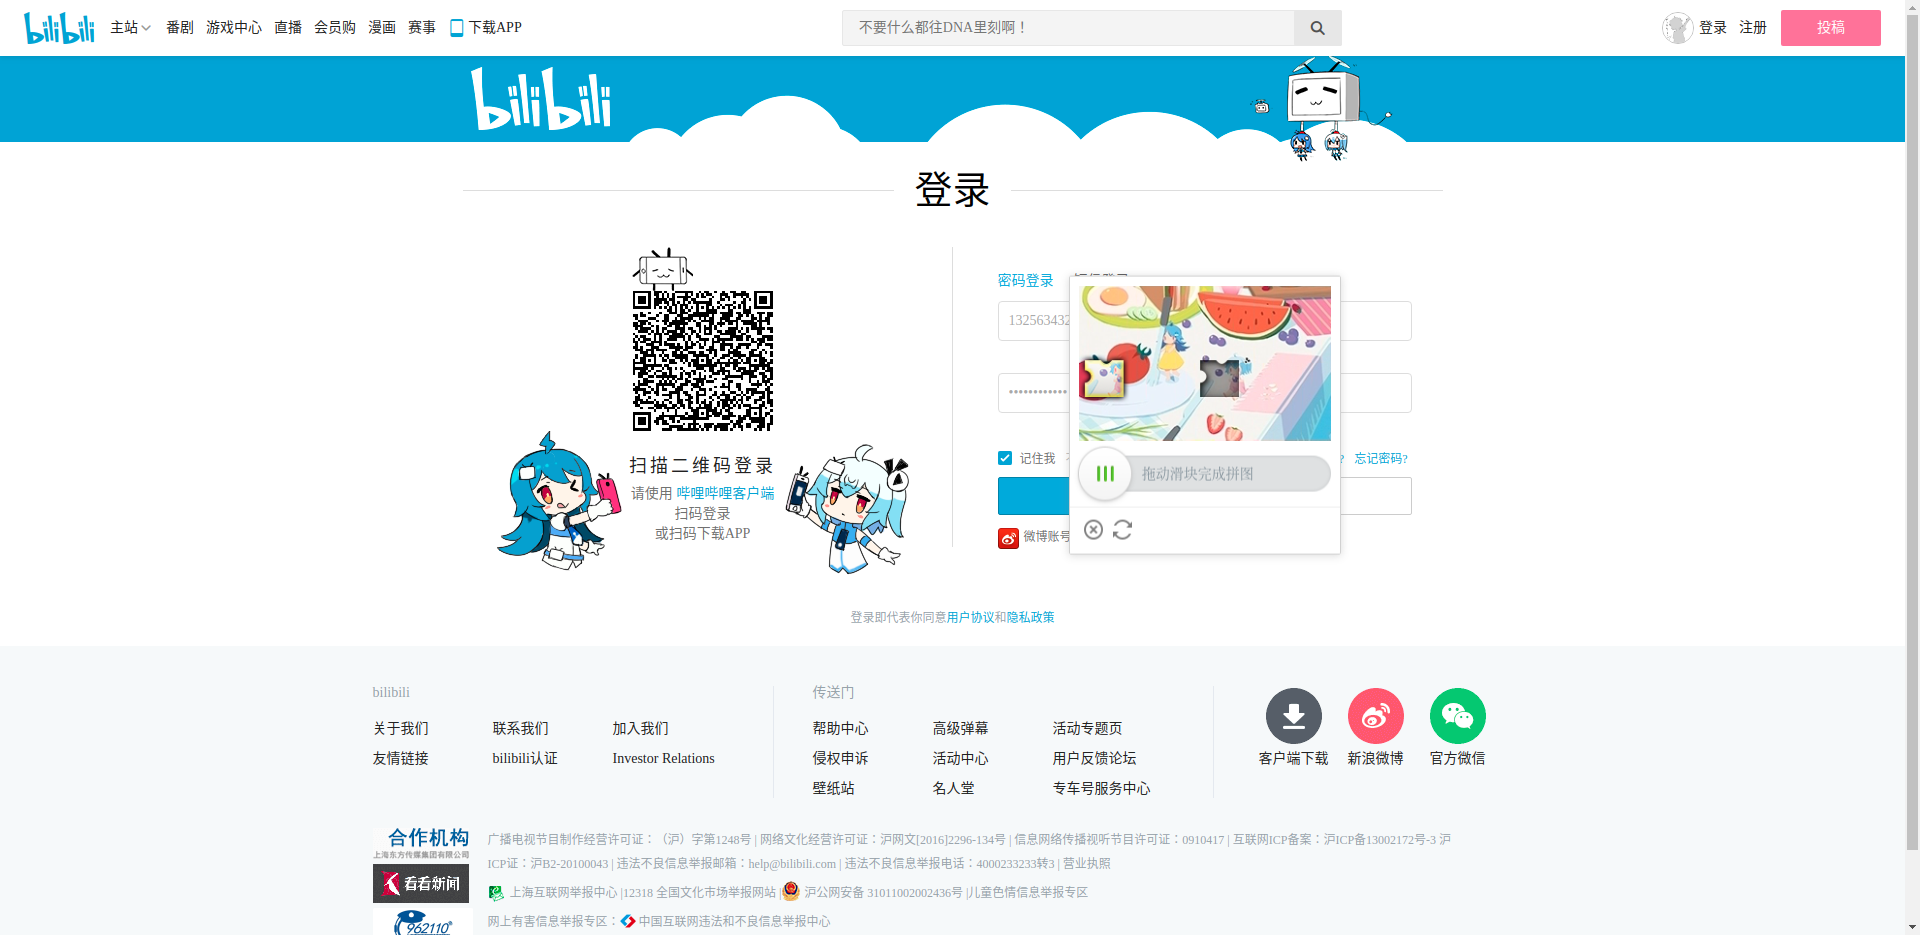
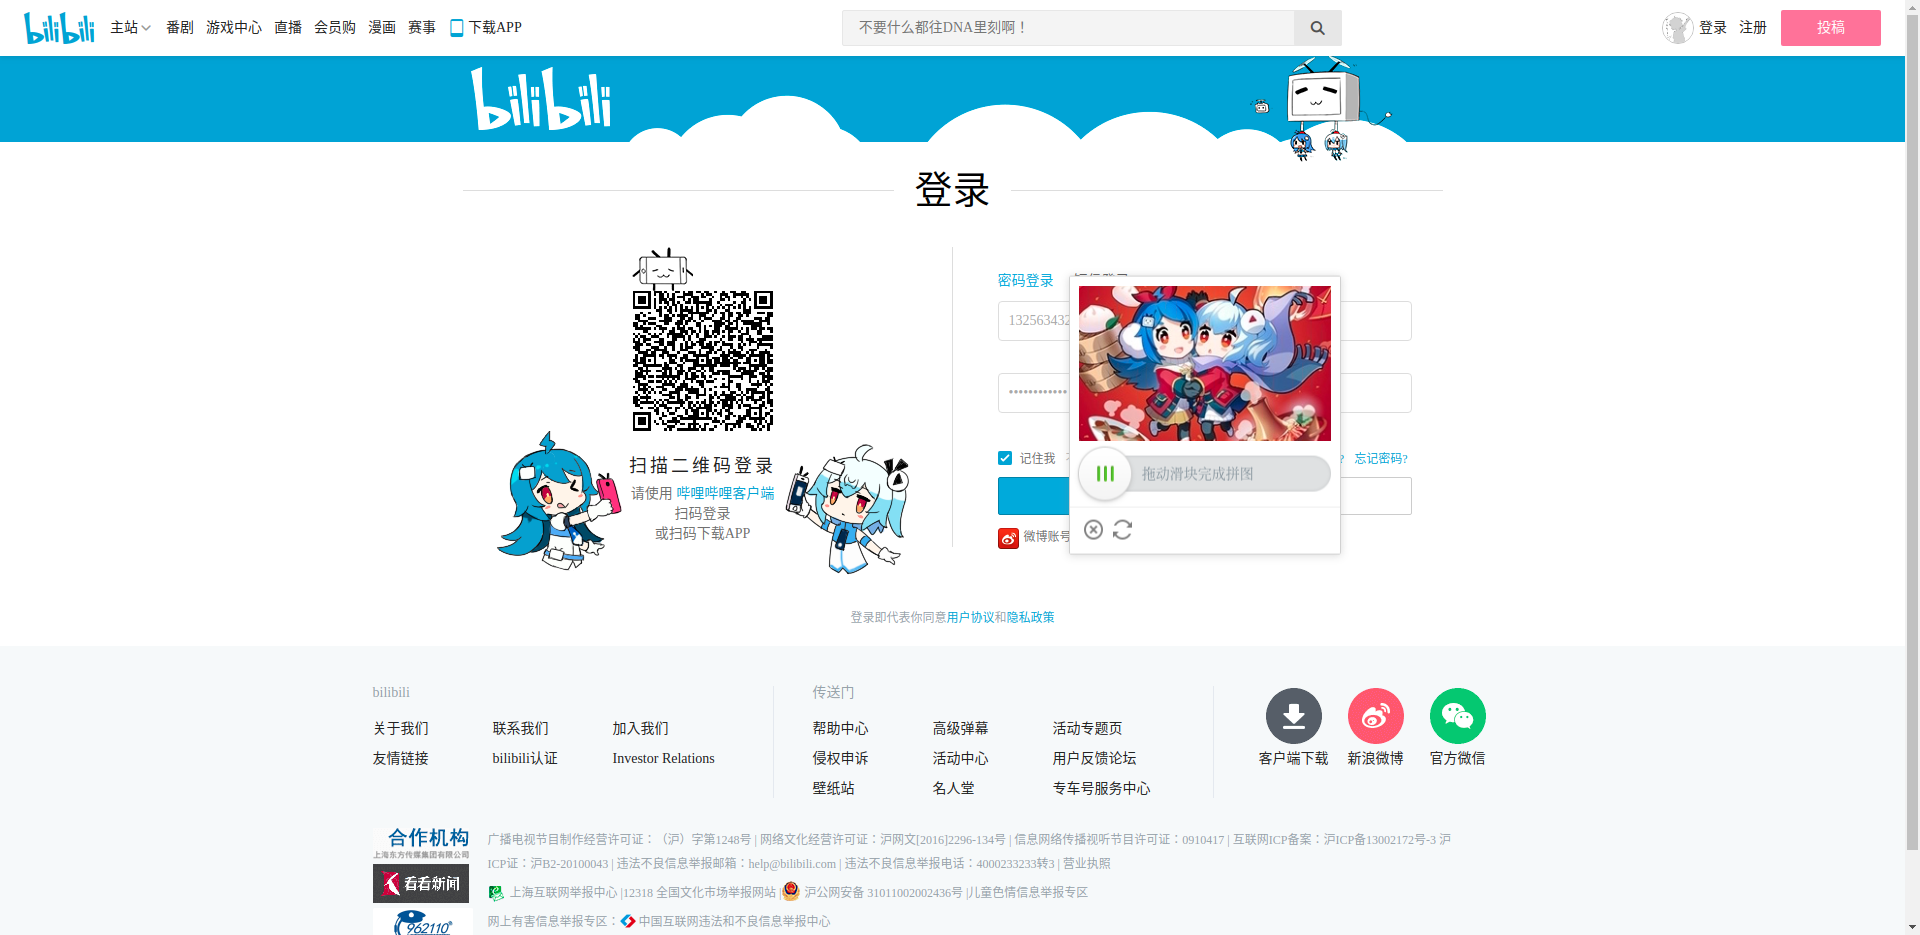
20200506

Changed region(s): [[0.5625, 0.2791, 0.7188, 0.4963], [0.3125, 0.3102, 0.4062, 0.4652]]

diff --git a/bilibili/test_1.py b/bilibili/test_1.py
@@ -1,5 +1,54 @@
 from selenium import webdriver
 from PIL import Image
+from selenium.webdriver.common.action_chains import ActionChains
+import time
+import random
+
+def slid_track(distance):
+    current = 0
+    v = 0
+    t = 0.2
+    mid = distance*2/3
+    track = []
+    while current<distance:
+        if current<mid:
+            a = 2
+        else:
+            a=-1
+        v0 = v
+        v = v0+a*t
+        s = v0*t+a*t*t/2
+        current += s
+        track.append(round(s))
+    return track
+
+
+def execute_slid(track,driver,slid_button):
+    ActionChains(driver).click_and_hold(slid_button).perform()
+    for i in track:
+        ActionChains(driver).move_by_offset(xoffset=i,yoffset=random.uniform(1,3)).perform()
+    time.sleep(0.5)
+    ActionChains(driver).release().perform()
+
+
+def caculate_distance(less_img,voll_img):
+    for i in range(less_img.size[0]):
+        for j in range(voll_img.size[1]):
+            if not img_equal(less_img,voll_img,i,j):
+                distance = i-6
+                return distance
+
+
+def img_equal(less_img,voll_img,x,y):
+    pixel1 = less_img.load()[x,y]
+    pixel2 = voll_img.load()[x,y]
+    wucha = 30
+    if abs(pixel1[0]-pixel2[0])<wucha and abs(pixel1[1]-pixel2[1])<wucha:
+        return True
+    else:
+        return False
+
+
 options = webdriver.ChromeOptions()
 options.add_argument("--no-sandbox")
 #options.add_argument("--headless")
@@ -14,11 +63,30 @@ login_pwd.send_keys("wyq123456789")
 button = driver.find_element_by_xpath("//a[@class='btn btn-login']")
 button.click()
 slid_button = driver.find_element_by_xpath("//div[@class='geetest_slider_button']")
-import time 
-time.sleep(2)
+time.sleep(1)
 less_canvas = driver.find_element_by_xpath("//canvas[@class='geetest_canvas_slice geetest_absolute']")
 top,bottom,left,right = less_canvas.location["y"],less_canvas.location["y"]+less_canvas.size["height"],less_canvas.location["x"],less_canvas.location["x"]+less_canvas.size["width"]
+#
+js = "document.getElementsByClassName('geetest_canvas_slice geetest_absolute')[0].style='display:none;'"
+driver.execute_script(js)
 screenshot = driver.get_screenshot_as_file("./voll_screen.png")
 im = Image.open("./voll_screen.png")
 less_img = im.crop((left,top,right,bottom))
 less_img.save("./less_img.png")
+#
+js = "document.getElementsByClassName('geetest_canvas_fullbg geetest_fade geetest_absolute')[0].style=''"
+driver.execute_script(js)
+screenshot = driver.get_screenshot_as_file("./voll_screen.png")
+im = Image.open("./voll_screen.png")
+voll_img = im.crop((left,top,right,bottom))
+voll_img.save("./voll_img.png")
+#
+js = "document.getElementsByClassName('geetest_canvas_slice geetest_absolute')[0].style=''"
+driver.execute_script(js)
+js = "document.getElementsByClassName('geetest_canvas_fullbg geetest_fade geetest_absolute')[0].style='display:none;'"
+driver.execute_script(js)
+distance = caculate_distance(less_img,voll_img)
+track = slid_track(distance)
+execute_slid(track,driver,slid_button)
+
+
